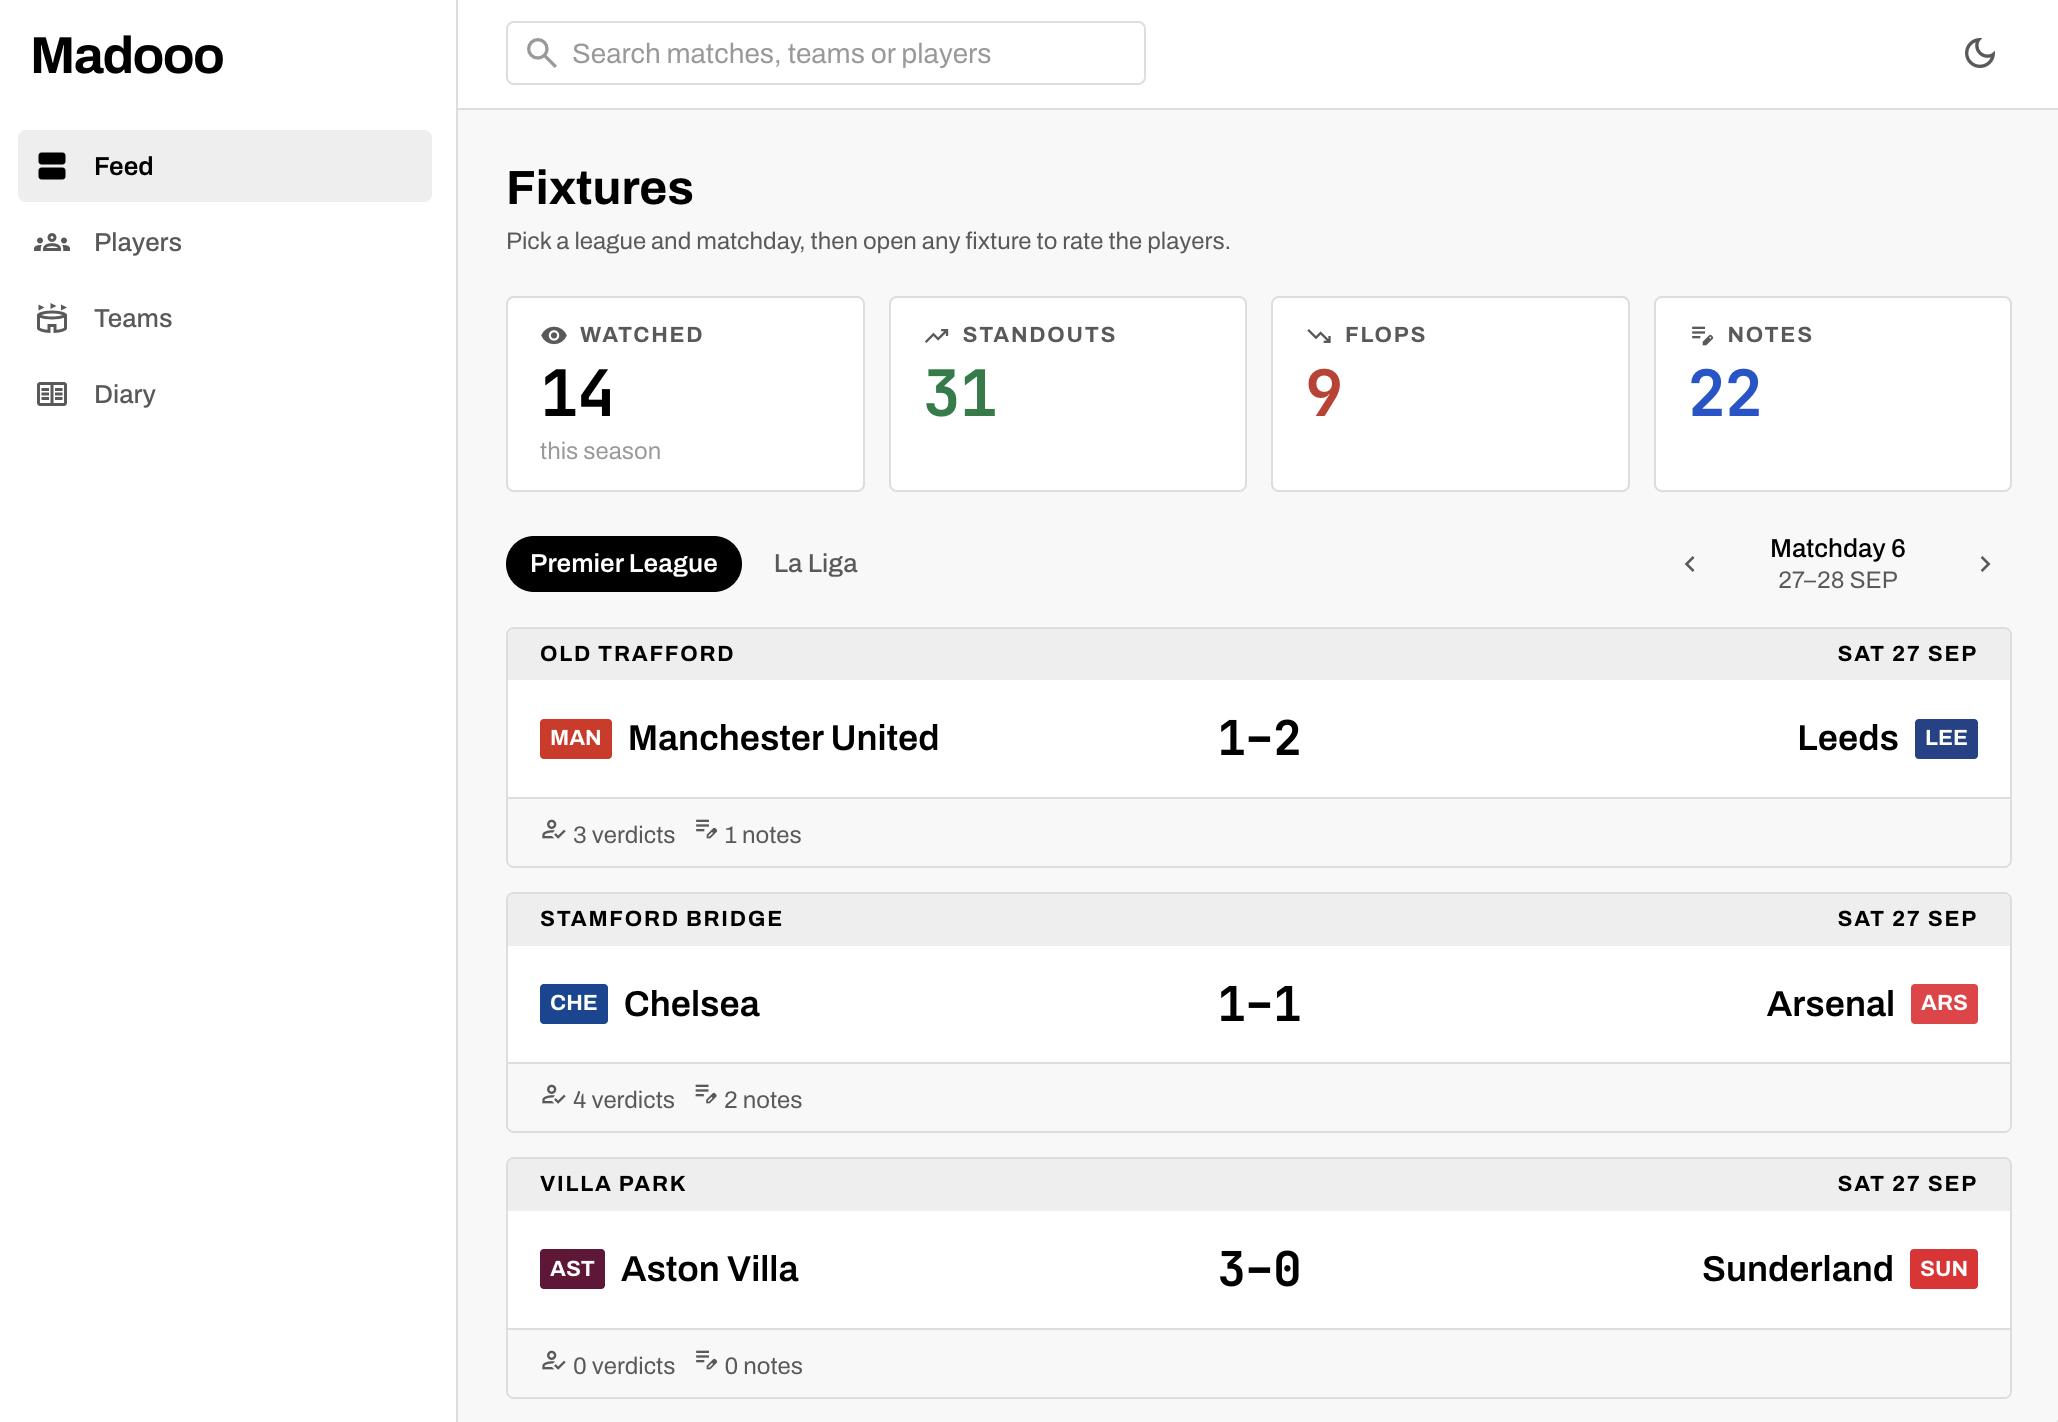
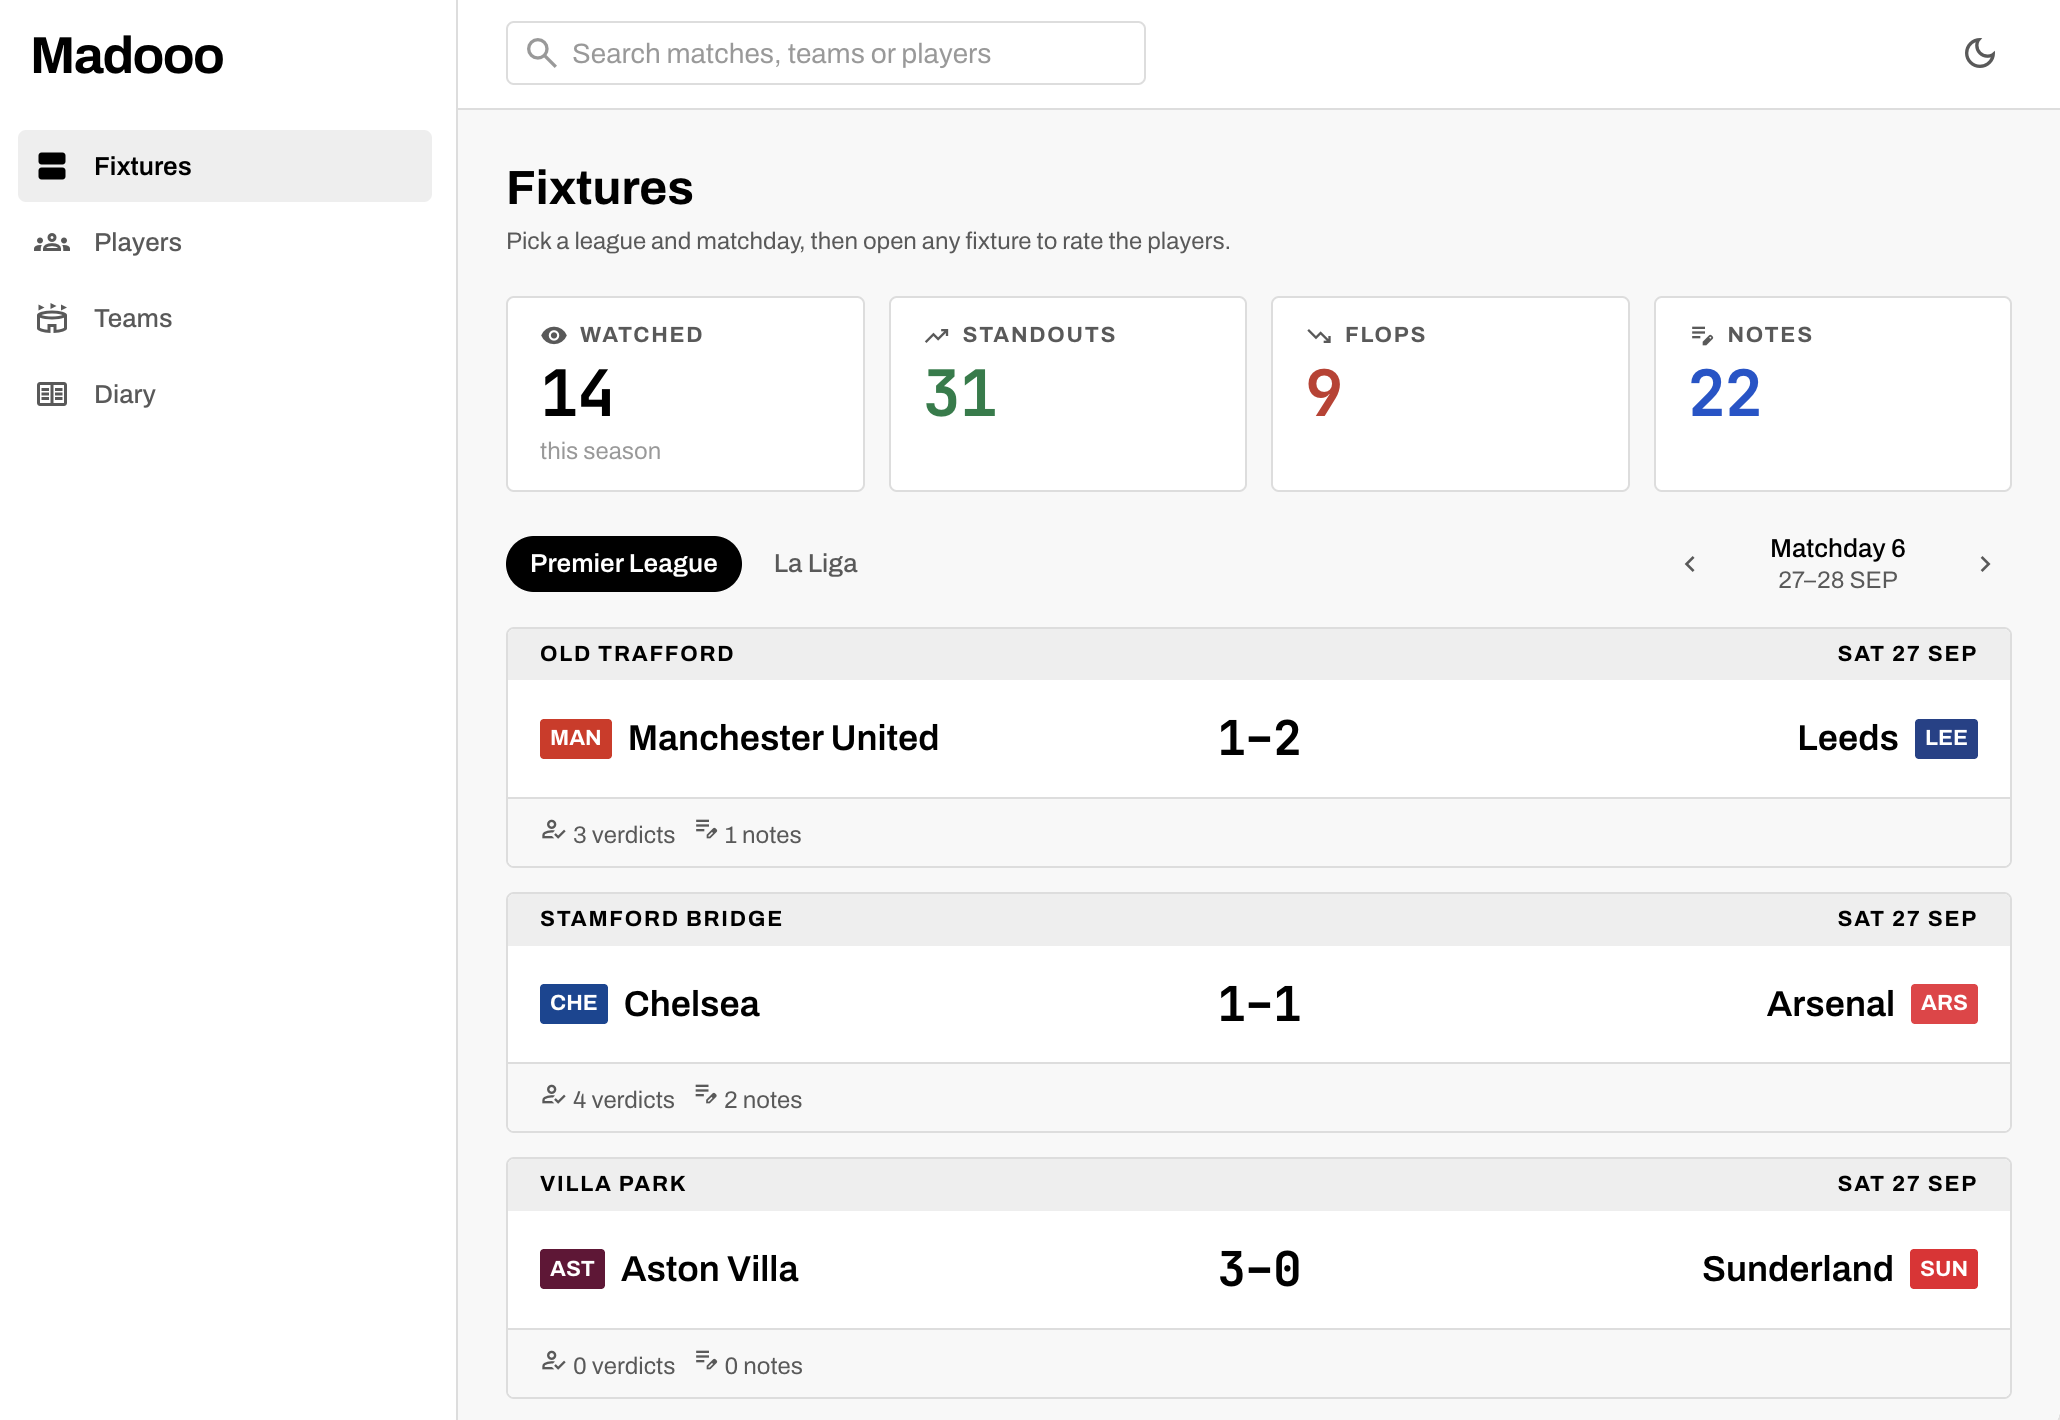
docs: land the design handoff and point agents at it
Nothing outside AGENTS.md is loaded automatically, so docs/design/ would
have gone unread by a fresh session. Name it there, and lift its one rule
that gets broken by accident — no raw hexes or px in product code.

The sidebar destination is Fixtures, and /dashboard becomes /fixtures in
6.1 to match it.

Also corrects the sidebar to four destinations, not five.

diff --git a/docs/design/foundations.md b/docs/design/foundations.md
@@ -1,0 +1,218 @@
+# Foundations
+
+See `colour.png` and `type-and-space.png`.
+
+## The idea
+A Google Slides "Simple" theme applied to a football notebook.
+
+Non-negotiables:
+- The border is the primary separator. Shadow means "this floats" — dialogs and toasts only.
+- No gradients, no photography, no illustration, no texture, no pattern, no frosted glass, no emoji.
+- Never hard-code a hex in product code. Always a semantic token.
+
+---
+
+## Colour
+
+### Neutral ramp (base tokens — never change across themes)
+| Token | Hex |
+| --- | --- |
+| `--gray-0` | `#ffffff` |
+| `--gray-1` | `#f8f8f8` |
+| `--gray-2` | `#eeeeee` |
+| `--gray-3` | `#dddddd` |
+| `--gray-4` | `#cccccc` |
+| `--gray-5` | `#b0b0b0` |
+| `--gray-6` | `#999999` |
+| `--gray-7` | `#595959` |
+| `--gray-8` | `#333333` |
+| `--gray-85` | `#2b2b2b` |
+| `--gray-90` | `#212121` |
+| `--gray-9` | `#000000` |
+
+### Accents (the six Google Slides theme accents + hyperlink)
+`--accent-blue #4285f4` · `--accent-red #db4437` · `--accent-yellow #f4b400` · `--accent-green #0f9d58` · `--accent-purple #ab47bc` · `--accent-cyan #00acc1` · `--link-blue #1155cc`
+
+### Tinted pairs (fill + readable ink on white)
+| Pair | Fill | Ink |
+| --- | --- | --- |
+| green (STANDOUT) | `--green-bg #e3f3ea` | `--green-ink #0b7d46` |
+| red (FLOP) | `--red-bg #fbe6e4` | `--red-ink #c5372c` |
+| yellow (MVP) | `--yellow-bg #fdf3d9` | `--yellow-ink #a17400` |
+| blue (info) | `--blue-bg #e6effd` | `--blue-ink #1155cc` |
+
+The inks are darkened versions of the raw accents so the label passes contrast on white. The raw accent (`--*-mark`) is used only for the icon glyph inside inverse surfaces (toast).
+
+### Semantic tokens
+
+| Semantic | Simple Light (default) | Simple Dark |
+| --- | --- | --- |
+| `--page` | `#f8f8f8` | `#212121` |
+| `--surface` | `#ffffff` | `#212121` |
+| `--surface-alt` | `#f8f8f8` | `#2b2b2b` |
+| `--surface-sunken` | `#eeeeee` | `#191919` |
+| `--surface-header` | `#eeeeee` | `#333333` |
+| `--surface-inverse` | `#000000` | `#ffffff` |
+| `--border` | `#dddddd` | `#3d3d3d` |
+| `--border-strong` | `#b0b0b0` | `#5c5c5c` |
+| `--border-focus` | `#000000` | `#ffffff` |
+| `--text` | `#000000` | `#ffffff` |
+| `--text-muted` | `#595959` | `#cccccc` |
+| `--text-faint` | `#999999` | `#999999` |
+| `--text-inverse` | `#ffffff` | `#212121` |
+| `--link` | `#1155cc` | `#8ab4f8` |
+| `--link-hover` | `#000000` | `#ffffff` |
+| `--overlay` | `rgba(0,0,0,.45)` | `rgba(0,0,0,.7)` |
+| `--standout` / `--standout-bg` | `#0b7d46` / `#e3f3ea` | `#4bcf8b` / `#12331f` |
+| `--flop` / `--flop-bg` | `#c5372c` / `#fbe6e4` | `#f28b82` / `#3a1c19` |
+| `--mvp` / `--mvp-bg` | `#a17400` / `#fdf3d9` | `#fdd663` / `#3a2f0d` |
+| `--info` / `--info-bg` | `#1155cc` / `#e6effd` | `#8ab4f8` / `#16243d` |
+
+`--standout-mark #0f9d58`, `--flop-mark #db4437`, `--mvp-mark #f4b400` are the same in both themes.
+
+### Theming
+Light is the default and needs no attribute. Dark is `data-theme="dark"` on `<html>` (or any container — it re-points semantics on any subtree). Only semantics re-point; base tokens never change.
+
+### Links
+`a { color: var(--link); text-decoration: none }` · `a:hover { color: var(--link-hover); text-decoration: underline }`
+
+Selection: `::selection` is `#dddddd` on `#000000` (light), `#333333` on `#ffffff` (dark).
+
+---
+
+## Type
+
+Two families, loaded from Google Fonts:
+- **Archivo** (400/500/600/700) — everything spoken. Fallback stack `"Archivo","Helvetica Neue",Arial,sans-serif`. It is the neutral grotesque stand-in for the theme's Arial, with better weights.
+- **JetBrains Mono** (400/500/700) — everything **counted**: scores, tallies, shirt numbers, dates, minute marks. Fallback `"JetBrains Mono","Roboto Mono",monospace`.
+
+The rule: **if it is a number you can add up, it is monospaced.**
+
+### Scale
+| Role | Weight / Size / Line-height / Family | Tracking | Used for |
+| --- | --- | --- | --- |
+| `--text-display` | 700 · 40px · 1.1 · Archivo | `-0.02em` | Reserved for large headers |
+| `--text-title` | 700 · 24px · 1.25 · Archivo | `-0.02em` | Page titles ("Fixtures", player name) |
+| `--text-heading` | 600 · 18px · 1.25 · Archivo | 0 | Dialog titles, team names on MatchCard |
+| `--text-body-lg` | 400 · 16px · 1.65 · Archivo | 0 | Diary notes — read as prose |
+| `--text-body` | 400 · 14px · 1.45 · Archivo | 0 | Default UI text |
+| `--text-label` | 500 · 13px · 1.25 · Archivo | 0 | Buttons, tabs, fixture lines |
+| `--text-caption` | 400 · 12px · 1.25 · Archivo | 0 | Sub-labels, meta |
+| `--text-caps` | 700 · 11px · 1.25 · Archivo | `+0.08em`, uppercase | Micro-labels: COMPETITION, STARTING XI |
+| `--text-stat` | 700 · 32px · 1.1 · JetBrains Mono | `-0.02em` | Stat tile numbers |
+| `--text-data` | 500 · 13px · 1.25 · JetBrains Mono | 0 | Shirt numbers, dates, counts |
+
+Sizes available: 11, 12, 13, 14, 16, 18, 20, 24, 32, 40, 56.
+Line heights: tight 1.1, snug 1.25, normal 1.45, loose 1.65.
+
+**Caps appear in exactly two places**: the three verdict words (STANDOUT / FLOP / MVP) and micro-labels. Everything else is sentence case.
+
+---
+
+## Spacing & layout
+
+4px base, fine-grained at the small end because rows are dense:
+
+`--sp-1 2` · `--sp-2 4` · `--sp-3 6` · `--sp-4 8` · `--sp-5 12` · `--sp-6 16` · `--sp-7 20` · `--sp-8 24` · `--sp-9 32` · `--sp-10 40` · `--sp-11 48` · `--sp-12 64` (px)
+
+### Frame
+| Token | Value |
+| --- | --- |
+| `--sidebar-w` | 232px |
+| `--rail-w` (top bar height) | 56px |
+| `--container` | 1120px max content width |
+| page padding | 24px (`--sp-8`) |
+
+Sidebar and top bar are fixed; content scrolls.
+
+### Control heights
+| Token | Value | Where |
+| --- | --- | --- |
+| `--row-h` | 36px | Nav items, dense rows |
+| `--row-h-lg` | 44px | Touch rows |
+| `--control-h` | 32px | Default button, input, select, icon button |
+| `--control-h-lg` | 40px | Large button, tab |
+| — | 26px | Small button / small icon button |
+| — | 28px | VerdictChip (md), pill tab |
+| — | 24px | Tag |
+| — | 20px | Badge, crest chip |
+| — | 16px | Checkbox / radio box |
+| — | 34×18px | Switch track (14px thumb, travels 16px) |
+
+### Radius — near-square
+| Token | Value | Where |
+| --- | --- | --- |
+| `--radius-sm` | 2px | Checkboxes, badges, crest chips, tooltip |
+| `--radius-md` | 4px | **Almost everything**: buttons, fields, cards, tiles, dialogs, toasts |
+| `--radius-lg` | 8px | Rare |
+| `--radius-pill` | 999px | **Only two things**: Tags and pill Tabs (plus radio and switch) |
+
+No 12px or 16px "friendly" radii.
+
+Borders: `--border-w 1px`, `--border-w-strong 2px`.
+
+---
+
+## Elevation
+| Token | Value | Where |
+| --- | --- | --- |
+| `--shadow-0` | none | Cards, tiles — the default |
+| `--shadow-1` | `0 1px 2px rgba(0,0,0,.12)` | Lifted row, switch thumb |
+| `--shadow-2` | `0 1px 3px rgba(0,0,0,.14), 0 2px 8px rgba(0,0,0,.08)` | Raised card |
+| `--shadow-3` | `0 8px 24px rgba(0,0,0,.18)` | Dialogs and toasts only |
+
+Dark theme deepens all three: `.6` / `.7`+`.5` / `.8` alpha respectively.
+
+`--focus-ring: 0 0 0 2px var(--surface), 0 0 0 4px var(--border-focus)` — a 2px black ring with a 2px surface-coloured gap; white in dark.
+
+---
+
+## Motion
+| Token | Value |
+| --- | --- |
+| `--dur-1` | 80ms |
+| `--dur-2` | 140ms |
+| `--dur-3` | 220ms |
+| `--dur-4` | 320ms |
+| `--ease-standard` | `cubic-bezier(.2,0,0,1)` |
+| `--ease-out` | `cubic-bezier(0,0,0,1)` |
+| `--ease-in` | `cubic-bezier(.3,0,1,1)` |
+
+Standard hover transition (`--t-hover`) is `background-color, border-color, color` at 140ms `--ease-standard`.
+
+The complete motion inventory:
+- Colour crossfade on hover — 140ms.
+- Dialog and toast: fade + 8px rise — 220ms `--ease-out`. Scrim fades at 140ms.
+- Switch thumb slide — 140ms.
+
+Nothing else animates. No bounce, no spring, no scale-in, no page transitions, no skeleton choreography. **All durations collapse to 0 under `prefers-reduced-motion: reduce`.**
+
+---
+
+## Interaction states
+
+**Hover** — surfaces darken one step (`--surface` → `--surface-alt` → `--surface-sunken`); bordered controls darken their border to `--border-strong`; muted text goes to `--text`. Never opacity fades, never lightening on light backgrounds.
+
+**Press** — one step darker again, plus `translateY(1px)`. No scale.
+
+**Focus** — `--focus-ring` on `:focus-visible`. Fields instead take `border-color: var(--border-focus)` plus `box-shadow: inset 0 0 0 1px var(--border-focus)`. Focus is never removed.
+
+**Disabled** — `opacity: .4`, `cursor: not-allowed`, no other change.
+
+**Error** — border goes `--flop`; the hint line is replaced by the error message in `--flop`.
+
+**Verdict states** — resting is a plain outlined chip in muted grey; this matters, because most players stay unrated. Selected fills with the verdict tint, colours the border and label, and switches the Material Symbol to its filled axis. There is no third "neutral" state — unselected *is* average.
+
+---
+
+## Iconography
+**Material Symbols Outlined**, variable font, weight 400, optical size 24, `FILL 0` by default.
+
+**Filled (`FILL 1`) means "on"** — an applied verdict, the active nav item, a favourited player. Nothing else fills.
+
+Sizes: 14 in badges and micro-labels, 16 in chips, 18 in buttons and fields, 20 default, 22 for large icon buttons. Icons inherit `currentColor` and are never given their own colour except through the element holding them.
+
+Working vocabulary: `trending_up` (STANDOUT), `trending_down` (FLOP), `star` (MVP), `sports_soccer`, `edit_note`, `add_comment`, `visibility`, `how_to_reg`, `groups`, `view_agenda`, `stadium`, `two_pager`, `calendar_today`, `search`, `settings`, `notifications`, `check`, `close`, `expand_more`, `chevron_left`, `chevron_right`, `more_horiz`, `delete`, `share`, `arrow_forward`, `light_mode`, `dark_mode`.
+
+**No emoji, no unicode glyphs as icons, no hand-drawn SVG.** If a glyph does not exist in Material Symbols, use a word.
+

diff --git a/docs/roadmap.md b/docs/roadmap.md
@@ -4,7 +4,7 @@ Where the project stands and what happens next. Update this as things land —
 it is the file that lets a fresh session pick up without the previous
 conversation.
 
-**Last updated:** 2026-08-02 (step 5; steps 6–8 re-sliced against the designs)
+**Last updated:** 2026-08-02 (step 5; design handoff landed in `design/`)
 
 ---
 
@@ -24,9 +24,12 @@ request for a signed-in user. `/` is a public landing page.
 - `scripts/verify_api.py` proves the API works; raw payloads sit in `scratch/`
   (gitignored) and are what the schema was designed against
 - `npm run db:check` proves the database layer works end to end
-- Visual designs exist in a Claude Design project. Screenshots of the feed page
-  are in [`design/screenshots/`](design/screenshots/); the project's own
-  markdown handoff is still to come and will land alongside them
+- Visual designs exist in a Claude Design project, handed off into
+  [`design/`](design/): [`foundations.md`](design/foundations.md) is the token
+  set and the rules around it, with `colour.png` and `type-and-space.png` as its
+  reference sheets and [`screenshots/`](design/screenshots/) showing the
+  fixtures page as intended. Nothing is implemented yet — step 6.1 is where the
+  tokens first become CSS
 - `npm run sync -- --round 1` fills the database from API-Football; `npm test`
   runs Vitest over the mapper
 - `.env.local` holds `API_FOOTBALL_KEY`, `SEASON`, `DATABASE_URL`,
@@ -115,10 +118,10 @@ duplication costs one indexed lookup.
 Each step ends with something runnable and a commit. Do not run ahead.
 
 Steps 6 to 8 are cut into slices, each its own branch and squash-merge. The
-designs are what cut them: the sidebar asks for five destinations where the
-roadmap had three, and several tiles and counts in the feed have no data behind
-them yet. **Every slice owns its own empty state** — what its screen says when
-it has nothing to show is part of the slice, not a later pass.
+designs are what cut them: the sidebar asks for four destinations where the
+roadmap had three, and several tiles and counts on the fixtures page have no
+data behind them yet. **Every slice owns its own empty state** — what its screen
+says when it has nothing to show is part of the slice, not a later pass.
 
 - [x] **0 — Verify the data source.** Done; see
       [`api-football-findings.md`](api-football-findings.md).
@@ -138,13 +141,14 @@ it has nothing to show is part of the slice, not a later pass.
 - [ ] **6 — The core loop.** Pick a match, see both squads, tag players
       MVP/STANDOUT/FLOP, and have it persist.
   - [ ] **6.1 — App shell.** The sidebar, top bar and shared design tokens.
-        `/dashboard` becomes `/feed`, with Players, Teams and Diary as siblings
-        behind placeholders. The signed-in identity moves from the dashboard
-        header into the sidebar's foot. The search field is not part of this —
-        a box that does nothing is worse than no box.
-  - [ ] **6.2 — The feed.** Fixture cards with venue, score and team badges;
-        the league tab row; the matchday pager. A match with no squad rows is
-        visibly not openable.
+        `/dashboard` becomes `/fixtures`, labelled Fixtures in the sidebar,
+        with Players, Teams and Diary as siblings behind placeholders. The
+        signed-in identity moves from the dashboard header into the sidebar's
+        foot. The search field is not part of this — a box that does nothing is
+        worse than no box.
+  - [ ] **6.2 — The fixtures page.** Fixture cards with venue, score and team
+        badges; the league tab row; the matchday pager. A match with no squad
+        rows is visibly not openable.
   - [ ] **6.3 — Match page.** Both squads, read-only: starters, substitutes,
         shirt numbers, positions.
   - [ ] **6.4 — Tagging.** A Server Action writing `Judgement`. Tapping the
@@ -288,7 +292,7 @@ response is ground truth; recollection is not.
   not publish club colours at all. `MatchLineup` does carry kit colours, but
   those are the kit worn in one match — possibly a third kit in a colour the club
   is not known by — so they describe a shirt, not an identity. Needed by 6.2.
-- **What "watched" counts.** The feed's first tile reads "WATCHED 14 this
+- **What "watched" counts.** The first tile on `/fixtures` reads "WATCHED 14 this
   season" and no such concept exists. The obvious reading is matches in which
   this user has recorded at least one judgement, which makes it a query rather
   than a new column, but it has not been agreed. Needed by 6.6.

diff --git a/AGENTS.md b/AGENTS.md
@@ -62,6 +62,14 @@ runs on `SEASON=2024`.
 is next, and which decisions are still open. Read it before proposing work, and
 update it when something lands.
 
+**Anything that renders:** [`docs/design/`](docs/design/) is the design source of
+truth — `foundations.md` holds the tokens (colour, type, spacing, elevation,
+motion, states, icons) and the rules about when each applies, alongside the
+reference images and screenshots of the intended screens. Read it before writing
+markup or CSS, not after. Its own first rule is the one most easily broken by
+accident: **never hard-code a hex or a raw px value in product code — always a
+semantic token.**
+
 ## Stack
 
 Decided:
